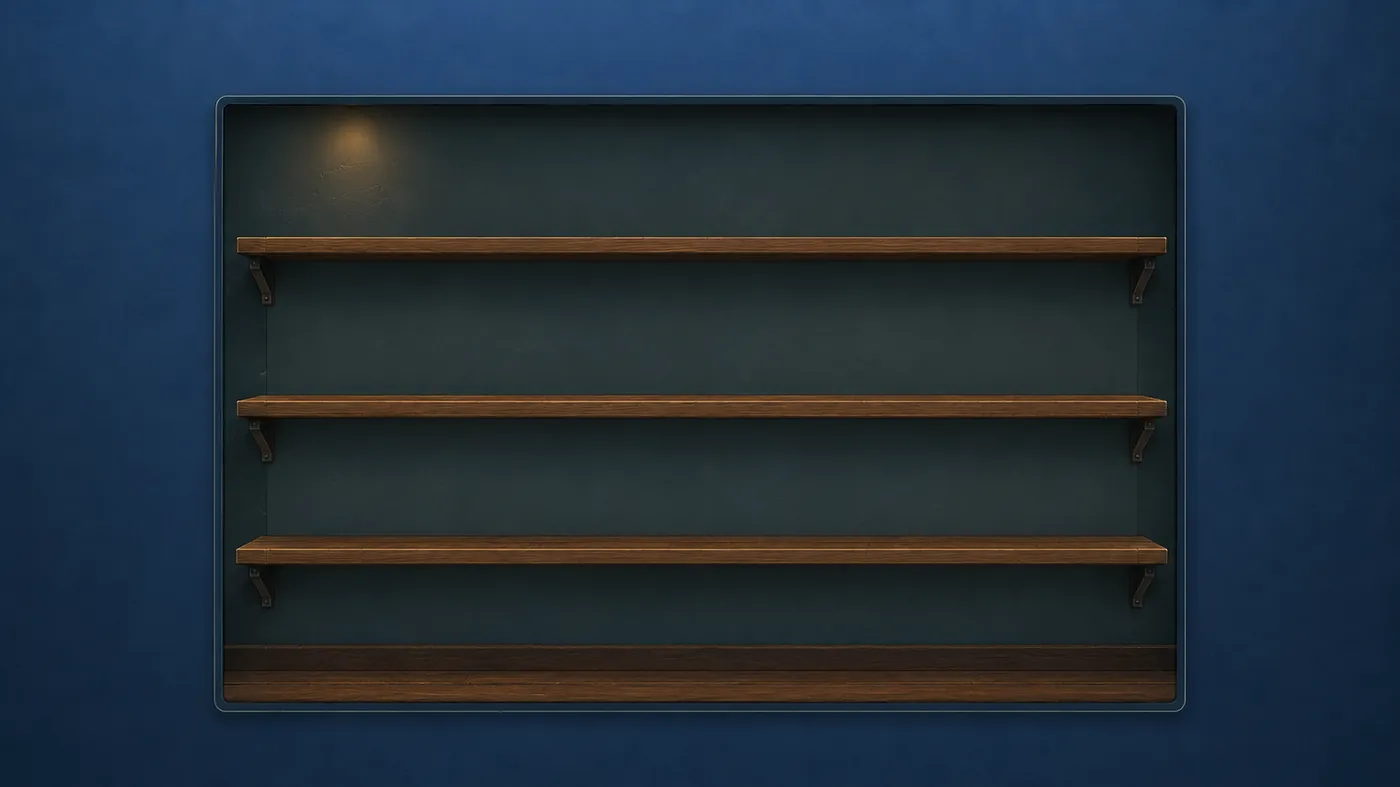
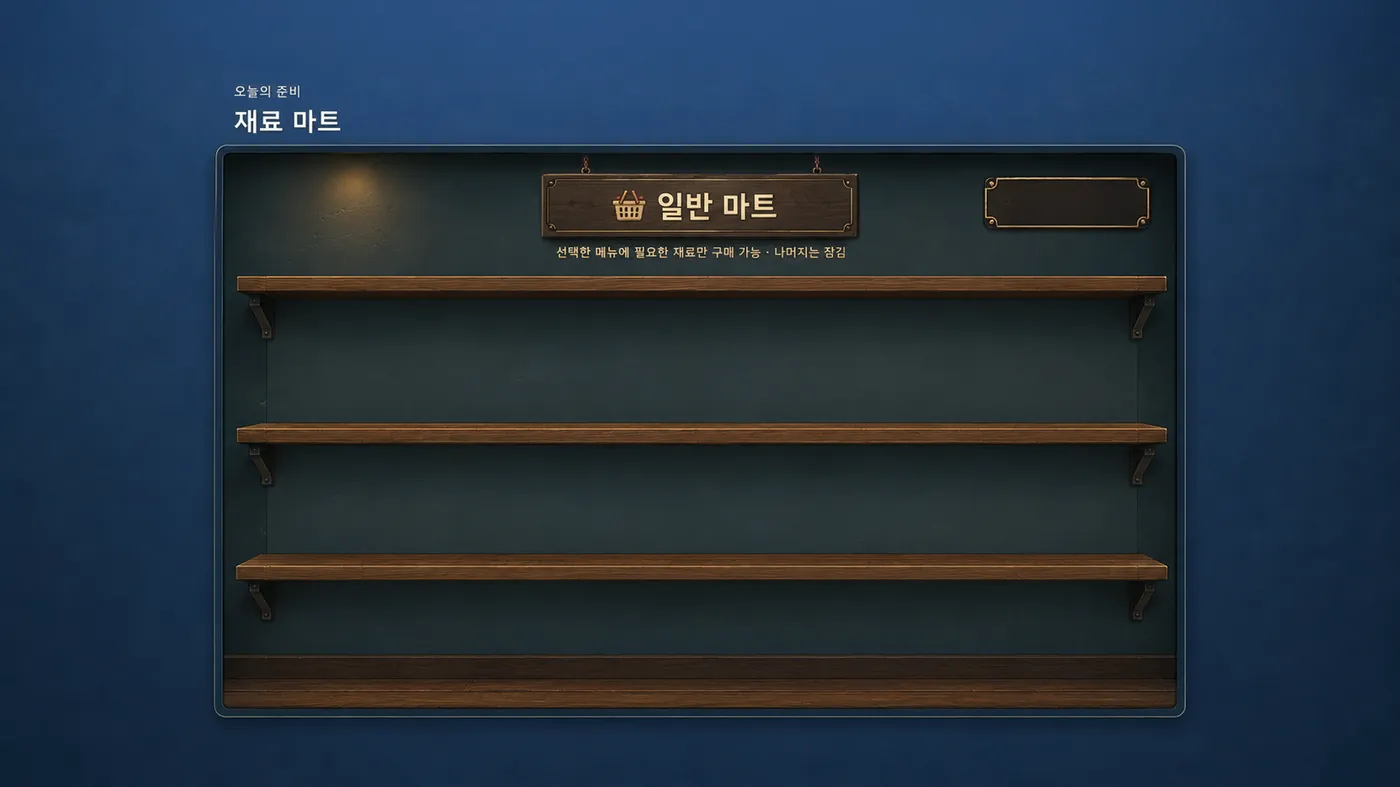
마트 탭 배경 변경 및 위치 재조정

diff --git a/src/pixi/scenes/IngredientMarketScene.ts b/src/pixi/scenes/IngredientMarketScene.ts
@@ -117,8 +117,40 @@ export function createIngredientMarketScene(
   const world = new Container()
   root.addChild(world)
 
-  let elapsed = 0
   const floatTexts: { t: Text; life: number; vy: number }[] = []
+
+  const onResize = () => layoutToScreen()
+  app.renderer.on('resize', onResize)
+
+  /* ── Cash (배경 이미지 우측 명패 위치) ───────── */
+  /** mart_background.webp 기준 명패 중심 (정규화 좌표) */
+  const CASH_CX = 0.762
+  const CASH_CY = 0.2545
+  const CASH_ART_W = 1400
+
+  const cashRoot = new Container()
+  root.addChild(cashRoot)
+  const cashText = new Text({
+    text: formatWon(state.cash),
+    resolution: textRes,
+    style: {
+      fontFamily: 'Segoe UI, Malgun Gothic, sans-serif',
+      fontSize: 22,
+      fontWeight: 'bold',
+      fill: 0xffe08a,
+    },
+  })
+  cashText.anchor.set(0.5)
+  cashRoot.addChild(cashText)
+
+  function placeCash() {
+    if (!bgSprite.texture || bgSprite.texture.width === 0) return
+    if (bgSprite.width <= 0) return
+    const scale = bgSprite.width / CASH_ART_W
+    cashRoot.scale.set(scale)
+    cashRoot.x = bgSprite.x + bgSprite.width * CASH_CX
+    cashRoot.y = bgSprite.y + bgSprite.height * CASH_CY
+  }
 
   function placeBgSprite() {
     if (!bgSprite.texture || bgSprite.texture.width === 0) return
@@ -130,73 +162,13 @@ export function createIngredientMarketScene(
     bgSprite.height = th * cover
     bgSprite.x = (app.screen.width - bgSprite.width) / 2
     bgSprite.y = (app.screen.height - bgSprite.height) / 2
+    placeCash()
   }
 
   function layoutToScreen() {
     layoutPrepUiWorld(app, world, MARKET_W, MARKET_H)
     placeBgSprite()
   }
-
-  const onResize = () => layoutToScreen()
-  app.renderer.on('resize', onResize)
-
-  /* ── Shop sign ───────────────────────────────── */
-  const sign = new Container()
-  sign.x = MARKET_W / 2
-  sign.y = 42
-  const signBoard = new Graphics()
-  drawRoundRect(signBoard, -170, -28, 340, 56, 10, M.sign)
-  drawRoundRect(signBoard, -160, -20, 320, 40, 8, M.wood)
-  sign.addChild(signBoard)
-  const signText = new Text({
-    text: '🏪  일반 마트',
-    resolution: textRes,
-    style: {
-      fontFamily: 'Segoe UI, Malgun Gothic, sans-serif',
-      fontSize: 26,
-      fontWeight: 'bold',
-      fill: M.chalk,
-    },
-  })
-  signText.anchor.set(0.5)
-  sign.addChild(signText)
-  world.addChild(sign)
-
-  const subtitle = new Text({
-    text: '선택한 메뉴의 필요 재료만 구매 가능 · 나머지는 잠김',
-    resolution: textRes,
-    style: {
-      fontFamily: 'Segoe UI, Malgun Gothic, sans-serif',
-      fontSize: 13,
-      fill: M.chalk,
-    },
-  })
-  subtitle.anchor.set(0.5, 0)
-  subtitle.x = MARKET_W / 2
-  subtitle.y = 78
-  world.addChild(subtitle)
-
-  /* ── Cash badge ──────────────────────────────── */
-  const cashBox = new Container()
-  cashBox.x = MARKET_W - 28
-  cashBox.y = 36
-  const cashBg = new Graphics()
-  drawRoundRect(cashBg, -168, -20, 168, 40, 12, M.cashBg, 0.82)
-  cashBox.addChild(cashBg)
-  const cashText = new Text({
-    text: formatWon(state.cash),
-    resolution: textRes,
-    style: {
-      fontFamily: 'Segoe UI, Malgun Gothic, sans-serif',
-      fontSize: 18,
-      fontWeight: 'bold',
-      fill: 0xffe08a,
-    },
-  })
-  cashText.anchor.set(1, 0.5)
-  cashText.x = -14
-  cashBox.addChild(cashText)
-  world.addChild(cashBox)
 
   /* ── Item grid ───────────────────────────────── */
   const GRID_COLS = 5
@@ -206,7 +178,7 @@ export function createIngredientMarketScene(
   const GAP_Y = 18
   const gridW = GRID_COLS * CARD_W + (GRID_COLS - 1) * GAP_X
   const gridOriginX = (MARKET_W - gridW) / 2
-  const gridOriginY = 118
+  const gridOriginY = 188
 
   const slots: SlotView[] = []
   const displayItems = ITEMS.slice(0, 15)
@@ -440,9 +412,6 @@ export function createIngredientMarketScene(
 
   const onTick = (ticker: Ticker) => {
     const dt = ticker.deltaMS / 1000
-    elapsed += dt
-
-    sign.y = 42 + Math.sin(elapsed * 1.6) * 2
 
     dustG.clear()
     for (const d of dust) {

diff --git a/src/phases/PrepPhase.tsx b/src/phases/PrepPhase.tsx
@@ -1,4 +1,4 @@
-import { useEffect, useMemo, useRef, useState } from 'react'
+import { useEffect, useRef, useState } from 'react'
 import CityMap, { type CityMapHandle } from '../components/CityMap'
 import LocationSelectStrip from '../components/LocationSelectStrip'
 import MenuSelector from '../components/MenuSelector'
@@ -8,10 +8,8 @@ import { ActionTypes } from '../state/actions'
 import {
   estimateCustomers,
   getLocationById,
-  getRequiredIngredientIds,
 } from '../state/formulas'
 import { getWeatherLabel } from '../utils/weather'
-import ingredients from '../data/ingredients.json'
 import type { LocationAnchors } from '../pixi/scenes/PrepLocationScene'
 import { READY_PHASE_BG, preloadCriticalAssets } from '../utils/assets'
 
@@ -73,17 +71,6 @@ export default function PrepPhase() {
   const [mapReady, setMapReady] = useState(false)
   const [posterDimmed, setPosterDimmed] = useState(false)
   const mapRef = useRef<CityMapHandle | null>(null)
-
-  const needed = useMemo(
-    () => getRequiredIngredientIds(state.activeMenus),
-    [state.activeMenus],
-  )
-  const neededLabels = needed
-    .map((id) => {
-      const ing = ingredients.find((i) => i.id === id)
-      return ing ? `${ing.icon}${ing.name}` : id
-    })
-    .join(' · ')
 
   useEffect(() => {
     setStep('location')
@@ -220,27 +207,23 @@ export default function PrepPhase() {
             <PrepHud />
             <PrepSteps step={step} />
 
-            <header className="prep-supply-header prep-supply-header--overlay">
-              <div>
-                <p className="prep-supply-kicker">오늘의 준비</p>
-                <h2>{step === 'menu' ? '메뉴 선택' : '재료 마트'}</h2>
-              </div>
-              {loc && (
-                <div className="prep-supply-badge">
-                  <span className="prep-supply-badge-icon">{loc.icon}</span>
-                  <div>
-                    <strong>{loc.name}</strong>
-                    <small>
-                      {step === 'menu'
-                        ? `판매 메뉴 ${state.activeMenus.length}종`
-                        : needed.length > 0
-                          ? `필요 재료 ${neededLabels}`
-                          : '먼저 메뉴를 선택하세요'}
-                    </small>
-                  </div>
+            {step === 'menu' && (
+              <header className="prep-supply-header prep-supply-header--overlay">
+                <div>
+                  <p className="prep-supply-kicker">오늘의 준비</p>
+                  <h2>메뉴 선택</h2>
                 </div>
-              )}
-            </header>
+                {loc && (
+                  <div className="prep-supply-badge">
+                    <span className="prep-supply-badge-icon">{loc.icon}</span>
+                    <div>
+                      <strong>{loc.name}</strong>
+                      <small>판매 메뉴 {state.activeMenus.length}종</small>
+                    </div>
+                  </div>
+                )}
+              </header>
+            )}
 
             <footer className="prep-bottom-bar">
               {step === 'menu' ? (
